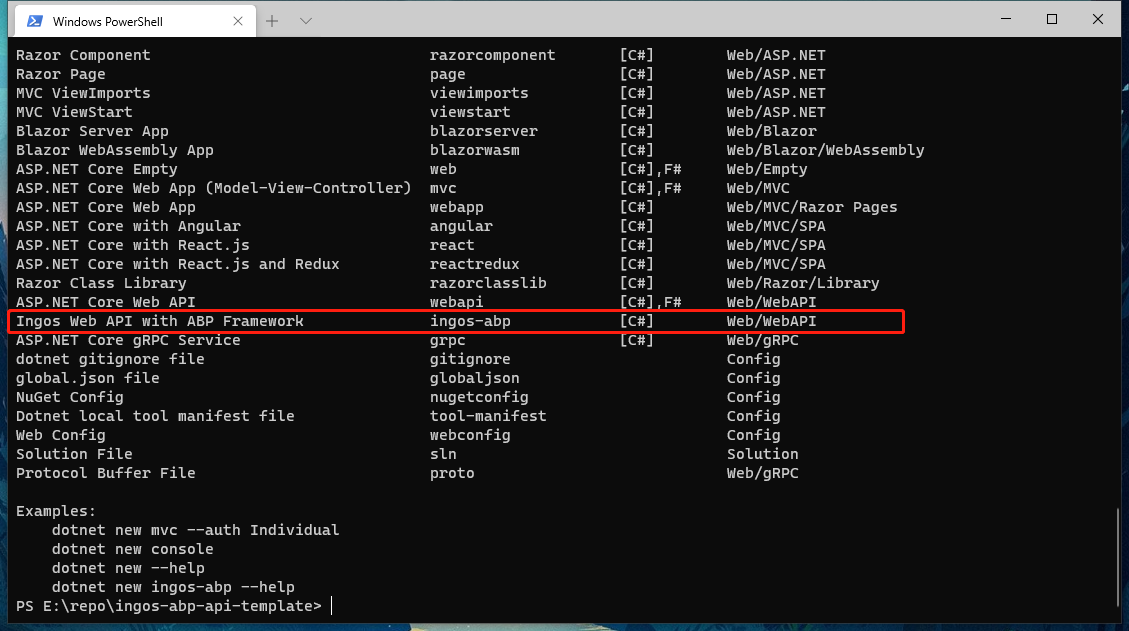
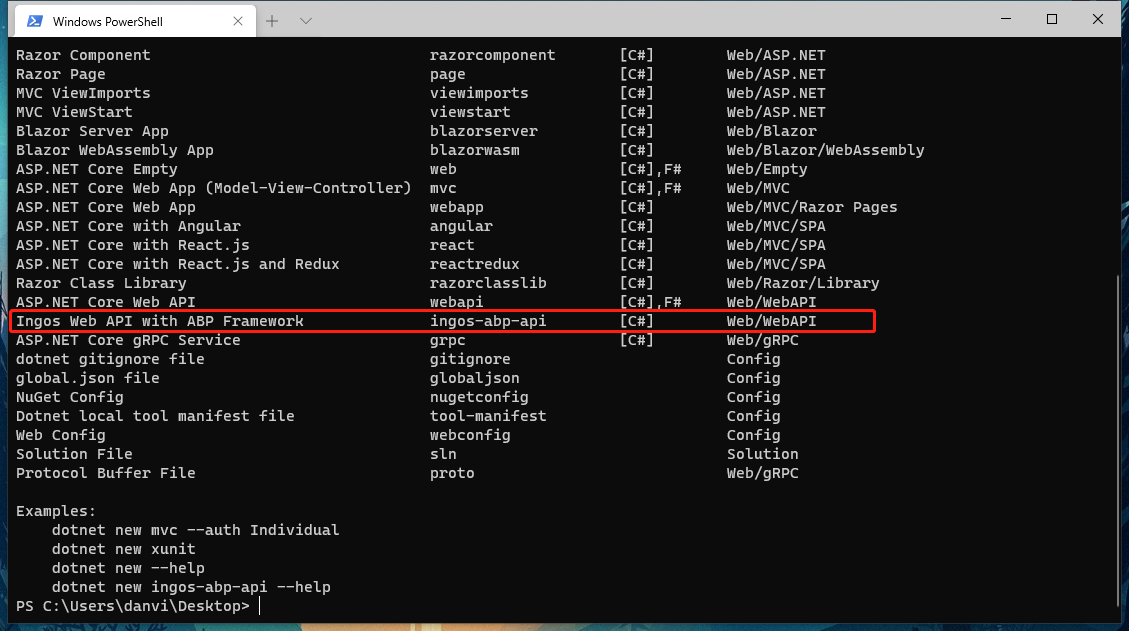
Add support for multiple databases

diff --git a/templates/src/IngosAbpTemplate.EntityFrameworkCore/IngosAbpTemplateEntityFrameworkCoreModule.cs b/templates/src/IngosAbpTemplate.EntityFrameworkCore/IngosAbpTemplateEntityFrameworkCoreModule.cs
@@ -4,7 +4,13 @@ using Microsoft.Extensions.DependencyInjection;
 using Volo.Abp.AuditLogging.EntityFrameworkCore;
 using Volo.Abp.BackgroundJobs.EntityFrameworkCore;
 using Volo.Abp.EntityFrameworkCore;
+#if MsSQL
+using Volo.Abp.EntityFrameworkCore.SqlServer;
+#elif PgSQL
+using Volo.Abp.EntityFrameworkCore.PostgreSql;
+#else
 using Volo.Abp.EntityFrameworkCore.MySQL;
+#endif
 using Volo.Abp.Modularity;
 using Volo.Abp.PermissionManagement.EntityFrameworkCore;
 
@@ -12,7 +18,13 @@ namespace IngosAbpTemplate.EntityFrameworkCore
 {
     [DependsOn(
         typeof(IngosAbpTemplateDomainModule),
+#if MsSQL
+        typeof(AbpEntityFrameworkCoreSqlServerModule),
+#elif PgSQL
+        typeof(AbpEntityFrameworkCorePostgreSqlModule),
+#else
         typeof(AbpEntityFrameworkCoreMySQLModule),
+#endif
         typeof(AbpBackgroundJobsEntityFrameworkCoreModule),
         typeof(AbpAuditLoggingEntityFrameworkCoreModule),
         typeof(AbpPermissionManagementEntityFrameworkCoreModule)
@@ -35,9 +47,13 @@ namespace IngosAbpTemplate.EntityFrameworkCore
 
             Configure<AbpDbContextOptions>(options =>
             {
-                /* The main point to change your DBMS.
-                 * See also IngosAbpTemplateMigrationsDbContextFactory for EF Core tooling. */
+#if MsSQL
+                options.UseSqlServer();
+#elif PgSQL
+                options.UseNpgsql();
+#else
                 options.UseMySQL();
+#endif
             });
         }
     }

diff --git a/templates/src/IngosAbpTemplate.EntityFrameworkCore/EntityConfigurations/DbContextFactory.cs b/templates/src/IngosAbpTemplate.EntityFrameworkCore/EntityConfigurations/DbContextFactory.cs
@@ -25,10 +25,19 @@ namespace IngosAbpTemplate.EntityFrameworkCore.EntityConfigurations
 
             var connectionString = configuration.GetConnectionString("Default");
 
+#if MsSQL
+            var builder = new DbContextOptionsBuilder<IngosAbpTemplateDbContext>()
+                .UseSqlServer(connectionString);
+            return new IngosAbpTemplateDbContext(builder.Options);
+#elif PgSQL
+            var builder = new DbContextOptionsBuilder<IngosAbpTemplateDbContext>()
+                .UseNpgsql(connectionString);
+            return new IngosAbpTemplateDbContext(builder.Options);
+#else
             var builder = new DbContextOptionsBuilder<IngosAbpTemplateDbContext>()
                 .UseMySql(connectionString, ServerVersion.AutoDetect(connectionString));
-
             return new IngosAbpTemplateDbContext(builder.Options);
+#endif
         }
 
         private static IConfigurationRoot BuildConfiguration()

diff --git a/README.md b/README.md
@@ -43,8 +43,12 @@ dotnet new ingos-abp -n Sample
 If you want to learn more about this template, you can enter the following shell script to get help information.
 
 ```shell
-dotnet new ingos-abp --help
+dotnet new ingos-abp-api --help
 ```
+
+Or you can using the latest Visual Studio to create the project, but please note that this cannot modify the default database option. The default database is MySQL.
+
+![creation](resource/images/creation.png)
 
 ### 3、Uninstall
 
